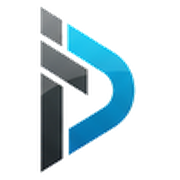
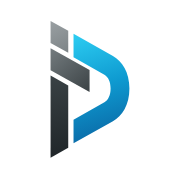
outra25112026
outra25112026

Changed region(s): [[0.2222, 0.0278, 0.7778, 0.9722]]

diff --git a/assets/site.js b/assets/site.js
@@ -185,7 +185,7 @@
   if(!REDUZ&&ss('dfg-intro')!=='1'&&book){
     ss('dfg-intro','1');
     var it=D.createElement('div'); it.id='intro'; it.setAttribute('aria-hidden','true');
-    it.innerHTML='<div class="p1"></div><div class="p2"></div><div class="c"><img src="assets/logo-dafilgest-branco.png" alt="" width="247" height="102"><div class="ln"></div><div class="tx">Contabilidade · Fiscalidade · Recursos Humanos — desde 2001</div></div>';
+    it.innerHTML='<div class="p1"></div><div class="p2"></div><div class="c"><svg class="lgv" focusable="false" aria-hidden="true" xmlns="http://www.w3.org/2000/svg" viewBox="0 0 256.9 102" width="256.9" height="102"><defs><linearGradient id="iwa" x1="4" y1="4" x2="16" y2="26" gradientUnits="userSpaceOnUse"><stop offset="0" stop-color="#FFFFFF"/><stop offset="1" stop-color="#E4EAEE"/></linearGradient><linearGradient id="iwb" x1="4" y1="23" x2="30" y2="53" gradientUnits="userSpaceOnUse"><stop offset="0" stop-color="#F4F7F9"/><stop offset="1" stop-color="#C9D3DA"/></linearGradient><linearGradient id="iwc" x1="4" y1="41" x2="16" y2="97" gradientUnits="userSpaceOnUse"><stop offset="0" stop-color="#E9EEF2"/><stop offset="1" stop-color="#B9C5CE"/></linearGradient><linearGradient id="iwd" x1="20" y1="13" x2="44" y2="87" gradientUnits="userSpaceOnUse"><stop offset="0" stop-color="#2DCDF2"/><stop offset=".5" stop-color="#0E9AD0"/><stop offset="1" stop-color="#0A65A3"/></linearGradient><linearGradient id="iwt" x1="160.0" y1="0" x2="253.9" y2="0" gradientUnits="userSpaceOnUse"><stop offset="0" stop-color="#1495CB"/><stop offset="1" stop-color="#16B9EC"/></linearGradient></defs><path d="M4 4.00L16 10.72L16 25.72L4 19.00Z" fill="url(#iwa)"/><path d="M4 22.60L30.5 37.44L30.5 52.44L4 37.60Z" fill="url(#iwb)"/><path d="M4 41.2L16 47.92L16 90.28L4 97Z" fill="url(#iwc)"/><path d="M19.6 12.8L46.4 27.8C52.6 31.3 57.6 38.6 57.6 50C57.6 61.4 52.6 68.7 46.4 72.2L19.6 87.2L19.6 71.2L40.6 59.4C43.2 57.9 44.8 54.6 44.8 50C44.8 45.4 43.2 42.1 40.6 40.6L19.6 28.8Z" fill="url(#iwd)"/><g fill="#FFFFFF"><path d="M65.5 65.0V35.0H78.61428571428571Q83.5 35.0 87.18571428571428 36.885714285714286Q90.87142857142857 38.77142857142857 92.92857142857143 42.114285714285714Q94.9857142857143 45.457142857142856 94.9857142857143 50.0Q94.9857142857143 54.5 92.92857142857143 57.864285714285714Q90.87142857142857 61.22857142857143 87.18571428571428 63.114285714285714Q83.5 65.0 78.61428571428571 65.0ZM71.07142857142857 60.285714285714285H78.35714285714286Q81.7 60.285714285714285 84.18571428571428 59.0Q86.67142857142858 57.714285714285715 88.02142857142857 55.400000000000006Q89.37142857142857 53.08571428571429 89.37142857142857 50.0Q89.37142857142857 46.87142857142857 88.02142857142857 44.57857142857142Q86.67142857142858 42.285714285714285 84.18571428571428 41.0Q81.7 39.714285714285715 78.35714285714286 39.714285714285715H71.07142857142857Z"/><path d="M113.78571428571429 65.0V60.371428571428574L113.4857142857143 59.385714285714286V51.285714285714285Q113.4857142857143 48.92857142857143 112.07142857142858 47.621428571428574Q110.65714285714286 46.31428571428572 107.78571428571429 46.31428571428572Q105.85714285714286 46.31428571428572 103.99285714285715 46.91428571428571Q102.12857142857143 47.51428571428571 100.84285714285716 48.58571428571429L98.74285714285715 44.68571428571428Q100.58571428571429 43.27142857142857 103.1357142857143 42.56428571428572Q105.6857142857143 41.85714285714286 108.42857142857143 41.85714285714286Q113.4 41.85714285714286 116.12142857142858 44.23571428571429Q118.84285714285716 46.614285714285714 118.84285714285716 51.58571428571429V65.0ZM106.58571428571429 65.3Q104.01428571428572 65.3 102.08571428571429 64.42142857142858Q100.15714285714286 63.542857142857144 99.10714285714286 61.97857142857143Q98.05714285714286 60.41428571428571 98.05714285714286 58.44285714285714Q98.05714285714286 56.51428571428571 98.97857142857143 54.971428571428575Q99.9 53.42857142857143 102.0 52.528571428571425Q104.10000000000001 51.628571428571426 107.57142857142858 51.628571428571426H114.21428571428572V55.18571428571428H107.95714285714287Q105.21428571428572 55.18571428571428 104.27142857142857 56.06428571428572Q103.32857142857144 56.94285714285714 103.32857142857144 58.22857142857143Q103.32857142857144 59.68571428571428 104.4857142857143 60.542857142857144Q105.64285714285715 61.4 107.7 61.4Q109.67142857142858 61.4 111.2357142857143 60.5Q112.80000000000001 59.6 113.4857142857143 57.84285714285714L114.3857142857143 61.05714285714286Q113.61428571428573 63.07142857142857 111.62142857142858 64.18571428571428Q109.62857142857143 65.3 106.58571428571429 65.3Z"/><path d="M125.72857142857144 65.0V40.82857142857143Q125.72857142857144 37.22857142857143 127.85000000000002 35.06428571428572Q129.9714285714286 32.9 133.9142857142857 32.9Q135.32857142857145 32.9 136.59285714285716 33.2Q137.85714285714286 33.5 138.71428571428572 34.14285714285714L137.25714285714287 38.17142857142857Q136.65714285714287 37.7 135.8857142857143 37.464285714285715Q135.11428571428573 37.22857142857143 134.3 37.22857142857143Q132.62857142857143 37.22857142857143 131.77142857142857 38.15Q130.9142857142857 39.07142857142857 130.9142857142857 40.91428571428571V43.48571428571428L131.0857142857143 45.885714285714286V65.0ZM121.95714285714287 46.57142857142857V42.285714285714285H137.21428571428572V46.57142857142857Z"/><path d="M140.15714285714287 65.0V42.114285714285714H145.51428571428573V65.0ZM142.8571428571429 38.34285714285714Q141.3571428571429 38.34285714285714 140.39285714285717 37.4Q139.42857142857144 36.457142857142856 139.42857142857144 35.12857142857143Q139.42857142857144 33.75714285714285 140.39285714285717 32.83571428571428Q141.3571428571429 31.91428571428571 142.8571428571429 31.91428571428571Q144.3571428571429 31.91428571428571 145.3214285714286 32.792857142857144Q146.2857142857143 33.67142857142857 146.2857142857143 35.0Q146.2857142857143 36.41428571428571 145.34285714285716 37.378571428571426Q144.40000000000003 38.34285714285714 142.8571428571429 38.34285714285714Z"/><path d="M151.84285714285716 65.0V33.2H157.20000000000002V65.0Z"/></g><g fill="url(#iwt)"><path d="M173.90000000000003 73.61428571428571Q170.72857142857146 73.61428571428571 167.70714285714288 72.77857142857144Q164.6857142857143 71.94285714285715 162.75714285714287 70.35714285714286L165.15714285714287 66.32857142857142Q166.65714285714287 67.57142857142857 168.95000000000002 68.32142857142857Q171.24285714285716 69.07142857142857 173.60000000000002 69.07142857142857Q177.3714285714286 69.07142857142857 179.12857142857143 67.33571428571429Q180.8857142857143 65.6 180.8857142857143 62.128571428571426V58.05714285714286L181.31428571428575 52.871428571428574L181.14285714285717 47.68571428571428V42.114285714285714H186.24285714285716V61.528571428571425Q186.24285714285716 67.74285714285715 183.0714285714286 70.67857142857143Q179.90000000000003 73.61428571428571 173.90000000000003 73.61428571428571ZM173.21428571428572 63.971428571428575Q169.95714285714288 63.971428571428575 167.3214285714286 62.57857142857143Q164.6857142857143 61.18571428571428 163.16428571428574 58.7Q161.64285714285717 56.214285714285715 161.64285714285717 52.871428571428574Q161.64285714285717 49.57142857142857 163.16428571428574 47.08571428571429Q164.6857142857143 44.6 167.3214285714286 43.22857142857143Q169.95714285714288 41.85714285714286 173.21428571428572 41.85714285714286Q176.12857142857143 41.85714285714286 178.44285714285715 43.01428571428572Q180.75714285714287 44.17142857142857 182.15000000000003 46.614285714285714Q183.54285714285717 49.05714285714286 183.54285714285717 52.871428571428574Q183.54285714285717 56.68571428571428 182.15000000000003 59.15Q180.75714285714287 61.614285714285714 178.44285714285715 62.792857142857144Q176.12857142857143 63.971428571428575 173.21428571428572 63.971428571428575ZM174.02857142857144 59.42857142857143Q176.04285714285717 59.42857142857143 177.62857142857143 58.59285714285714Q179.21428571428572 57.75714285714286 180.09285714285716 56.278571428571425Q180.9714285714286 54.8 180.9714285714286 52.871428571428574Q180.9714285714286 50.94285714285714 180.09285714285716 49.46428571428571Q179.21428571428572 47.98571428571428 177.62857142857143 47.192857142857136Q176.04285714285717 46.4 174.02857142857144 46.4Q172.01428571428573 46.4 170.40714285714287 47.192857142857136Q168.8 47.98571428571428 167.92142857142858 49.46428571428571Q167.04285714285717 50.94285714285714 167.04285714285717 52.871428571428574Q167.04285714285717 54.8 167.92142857142858 56.278571428571425Q168.8 57.75714285714286 170.40714285714287 58.59285714285714Q172.01428571428573 59.42857142857143 174.02857142857144 59.42857142857143Z"/><path d="M203.32857142857145 65.3Q199.51428571428573 65.3 196.66428571428574 63.778571428571425Q193.81428571428575 62.25714285714286 192.25000000000003 59.6Q190.6857142857143 56.94285714285714 190.6857142857143 53.55714285714286Q190.6857142857143 50.128571428571426 192.20714285714288 47.49285714285715Q193.72857142857146 44.85714285714286 196.4071428571429 43.35714285714286Q199.08571428571432 41.85714285714286 202.51428571428573 41.85714285714286Q205.8571428571429 41.85714285714286 208.4714285714286 43.31428571428572Q211.08571428571432 44.77142857142857 212.58571428571432 47.42857142857143Q214.08571428571432 50.08571428571429 214.08571428571432 53.68571428571428Q214.08571428571432 54.028571428571425 214.06428571428575 54.457142857142856Q214.04285714285717 54.885714285714286 214.00000000000003 55.27142857142857H194.92857142857144V51.714285714285715H211.17142857142858L209.07142857142858 52.82857142857143Q209.11428571428573 50.85714285714286 208.25714285714287 49.35714285714286Q207.40000000000003 47.85714285714286 205.9214285714286 47.0Q204.44285714285718 46.14285714285714 202.51428571428573 46.14285714285714Q200.54285714285717 46.14285714285714 199.06428571428575 47.0Q197.58571428571432 47.85714285714286 196.75000000000003 49.37857142857143Q195.91428571428574 50.9 195.91428571428574 52.957142857142856V53.81428571428572Q195.91428571428574 55.871428571428574 196.8571428571429 57.457142857142856Q197.8 59.042857142857144 199.51428571428573 59.900000000000006Q201.22857142857146 60.75714285714286 203.45714285714288 60.75714285714286Q205.3857142857143 60.75714285714286 206.92857142857144 60.15714285714286Q208.4714285714286 59.55714285714286 209.67142857142858 58.27142857142857L212.54285714285717 61.57142857142857Q211.00000000000003 63.371428571428574 208.66428571428574 64.33571428571429Q206.32857142857145 65.3 203.32857142857145 65.3Z"/><path d="M225.60000000000002 65.3Q222.72857142857146 65.3 220.09285714285716 64.55Q217.45714285714288 63.8 215.91428571428574 62.72857142857143L217.9714285714286 58.65714285714286Q219.51428571428573 59.642857142857146 221.65714285714287 60.28571428571429Q223.8 60.92857142857143 225.94285714285715 60.92857142857143Q228.4714285714286 60.92857142857143 229.6071428571429 60.24285714285715Q230.74285714285716 59.55714285714286 230.74285714285716 58.4Q230.74285714285716 57.457142857142856 229.9714285714286 56.964285714285715Q229.20000000000002 56.471428571428575 227.95714285714286 56.214285714285715Q226.71428571428572 55.957142857142856 225.19285714285715 55.74285714285714Q223.67142857142858 55.528571428571425 222.15000000000003 55.16428571428571Q220.62857142857146 54.8 219.3857142857143 54.09285714285714Q218.14285714285717 53.385714285714286 217.3714285714286 52.18571428571428Q216.60000000000002 50.98571428571429 216.60000000000002 49.01428571428571Q216.60000000000002 46.82857142857143 217.84285714285716 45.221428571428575Q219.08571428571432 43.614285714285714 221.33571428571432 42.73571428571429Q223.58571428571432 41.85714285714286 226.67142857142858 41.85714285714286Q228.9857142857143 41.85714285714286 231.34285714285716 42.371428571428574Q233.70000000000002 42.885714285714286 235.24285714285716 43.82857142857143L233.1857142857143 47.9Q231.55714285714288 46.91428571428571 229.90714285714287 46.55Q228.25714285714287 46.18571428571428 226.62857142857143 46.18571428571428Q224.1857142857143 46.18571428571428 223.00714285714287 46.91428571428571Q221.82857142857145 47.64285714285714 221.82857142857145 48.75714285714285Q221.82857142857145 49.785714285714285 222.60000000000002 50.3Q223.3714285714286 50.81428571428572 224.61428571428576 51.114285714285714Q225.8571428571429 51.41428571428571 227.37857142857146 51.607142857142854Q228.90000000000003 51.8 230.40000000000003 52.18571428571428Q231.90000000000003 52.57142857142857 233.16428571428574 53.23571428571428Q234.42857142857144 53.9 235.20000000000002 55.099999999999994Q235.9714285714286 56.3 235.9714285714286 58.22857142857143Q235.9714285714286 60.371428571428574 234.70714285714286 61.957142857142856Q233.44285714285715 63.542857142857144 231.12857142857143 64.42142857142858Q228.81428571428575 65.3 225.60000000000002 65.3Z"/><path d="M248.51428571428573 65.3Q244.74285714285716 65.3 242.6857142857143 63.349999999999994Q240.62857142857143 61.4 240.62857142857143 57.58571428571429V37.05714285714286H245.9857142857143V57.457142857142856Q245.9857142857143 59.08571428571429 246.82142857142858 59.98571428571429Q247.65714285714287 60.885714285714286 249.15714285714287 60.885714285714286Q250.95714285714288 60.885714285714286 252.15714285714287 59.94285714285714L253.65714285714287 63.75714285714286Q252.71428571428572 64.52857142857142 251.34285714285716 64.91428571428571Q249.9714285714286 65.3 248.51428571428573 65.3ZM236.85714285714286 46.4V42.114285714285714H252.11428571428573V46.4Z"/></g></svg><div class="ln"></div><div class="tx">Contabilidade · Fiscalidade · Recursos Humanos — desde 2001</div></div>';
     D.body.appendChild(it);
     var abre=function(){ if(it._a) return; it._a=1; it.classList.add('abre'); setTimeout(function(){ it.remove(); },1100); };
     it.addEventListener('click',abre); setTimeout(abre,2300);

diff --git a/assets/site.css b/assets/site.css
@@ -114,7 +114,8 @@ html.book.ultima .canto{display:none}
 .hd{position:fixed;inset:0 0 auto;z-index:100;transition:background .35s,box-shadow .35s,border-color .35s;border-bottom:1px solid rgba(255,255,255,.08)}
 .hd .wrap{display:flex;align-items:center;justify-content:space-between;height:84px;transition:height .35s}
 .brand{display:block;position:relative;width:150px;height:62px;flex:none}
-.brand img{position:absolute;inset:0;width:100%;height:100%;object-fit:contain;object-position:left center;transition:opacity .35s}
+.brand img,.brand .lgv{position:absolute;inset:0;width:100%;height:100%;object-fit:contain;object-position:left center;transition:opacity .35s}
+.ft .lg-f .lgv{display:block;width:100%;height:auto}
 .brand .lc{opacity:0}
 .nav{display:flex;align-items:center;gap:2px}
 .nav a{color:rgba(255,255,255,.82);font-size:15px;font-weight:500;padding:9px 14px;border-radius:999px;transition:color .2s,background .2s;position:relative}
@@ -425,11 +426,11 @@ form .fg{display:grid;grid-template-columns:1fr 1fr;gap:16px}
 #intro .p1,#intro .p2{position:absolute;left:0;right:0;height:50.5%;background:#07111B;transition:transform 1s cubic-bezier(.7,0,.2,1)}
 #intro .p1{top:0}#intro .p2{bottom:0}
 #intro .c{position:relative;z-index:2;text-align:center;transition:opacity .45s,transform .9s cubic-bezier(.7,0,.2,1)}
-#intro img{width:min(300px,62vw);height:auto;margin:0 auto;clip-path:inset(0 100% 0 0);animation:logoRev 1.2s .25s cubic-bezier(.65,0,.25,1) forwards}
+#intro .lgv{display:block;width:min(620px,86vw);height:auto;margin:0 auto;clip-path:inset(0 100% 0 0);animation:logoRev 1.2s .25s cubic-bezier(.65,0,.25,1) forwards}
 #intro .ln{height:2px;margin:22px auto 0;width:0;background:var(--grad);animation:linha 1s .7s cubic-bezier(.65,0,.25,1) forwards;border-radius:2px}
 #intro .tx{margin-top:16px;font-family:var(--serif);font-style:italic;font-size:22px;color:#A9B7C4;opacity:0;animation:aparece .8s 1.1s ease forwards;letter-spacing:.02em}
 @keyframes logoRev{to{clip-path:inset(0 0 0 0)}}
-@keyframes linha{to{width:min(300px,62vw)}}
+@keyframes linha{to{width:min(620px,86vw)}}
 @keyframes aparece{to{opacity:1}}
 #intro.abre .p1{transform:translateY(-101%)}
 #intro.abre .p2{transform:translateY(101%)}
